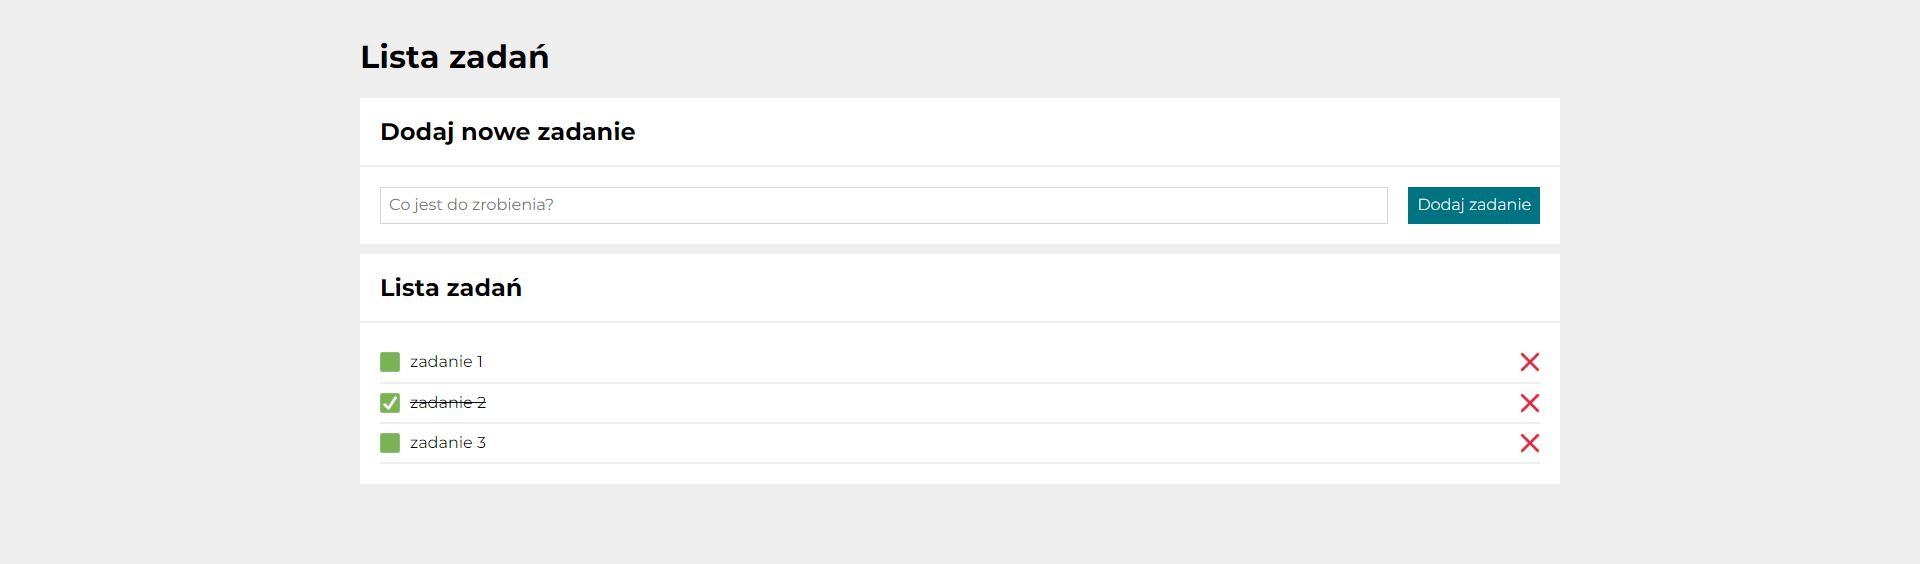
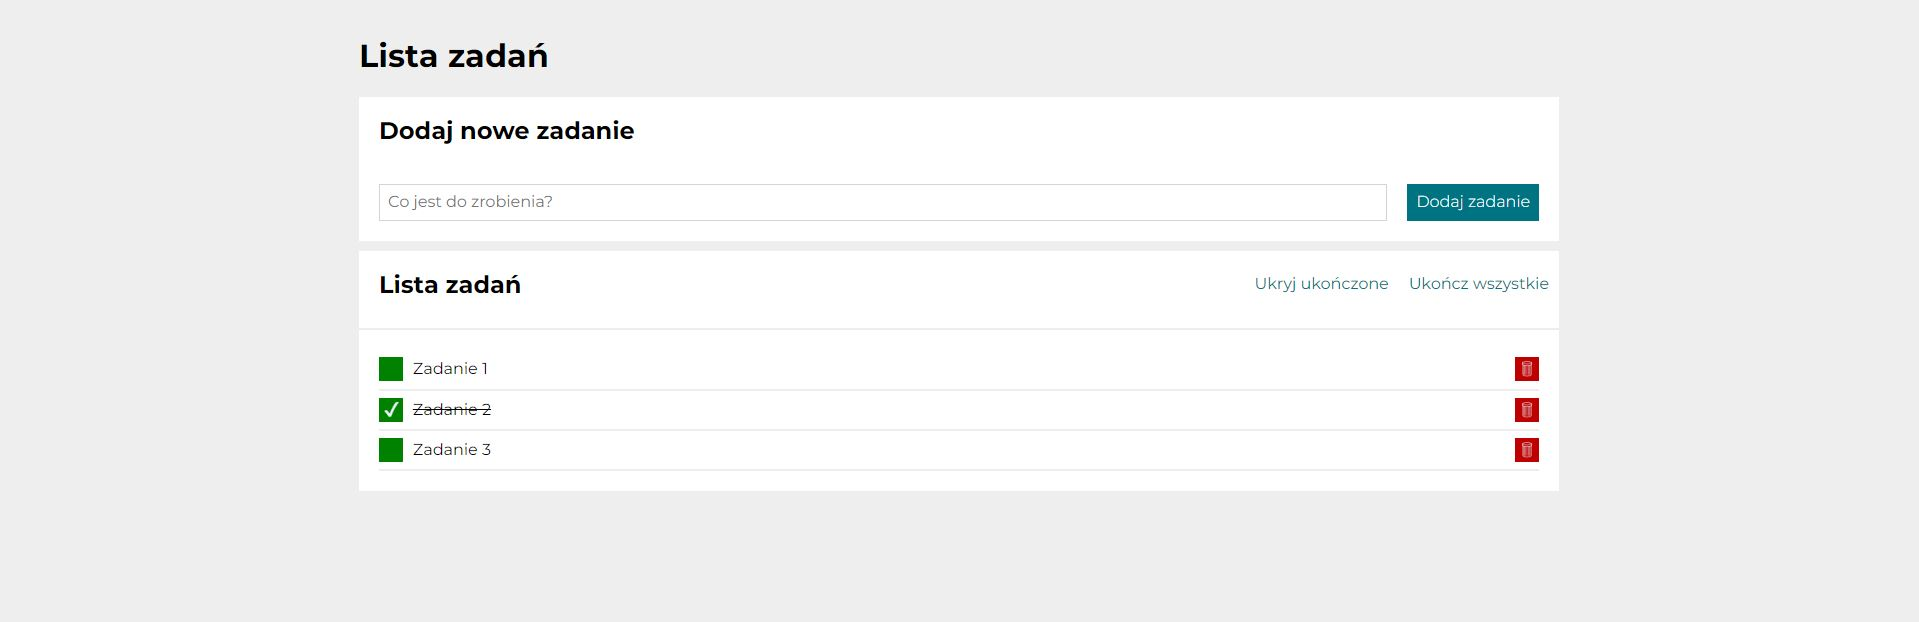
eddited readme file

diff --git a/README.md b/README.md
@@ -15,5 +15,8 @@ In this project I'm using *javascript* and *flex*.
 My task list is built on a simple form with one input and a submit button.
 List of records apears beneth the form, each record with two buttons, one to mark task as done and one to delete the task form the list.
 
+### What's new?
+I've added two buttons, one to mark all tasks done and the other to hide all done task. Both buttons apear only if list is not empty. 
+
 ![screenshot of the website showing task list with three items below an input form. Second item on the list is marked as done, its text stroke through](https://raw.githubusercontent.com/bedicooper/taskList/main/img/websiteScreenshot.JPG)
 
